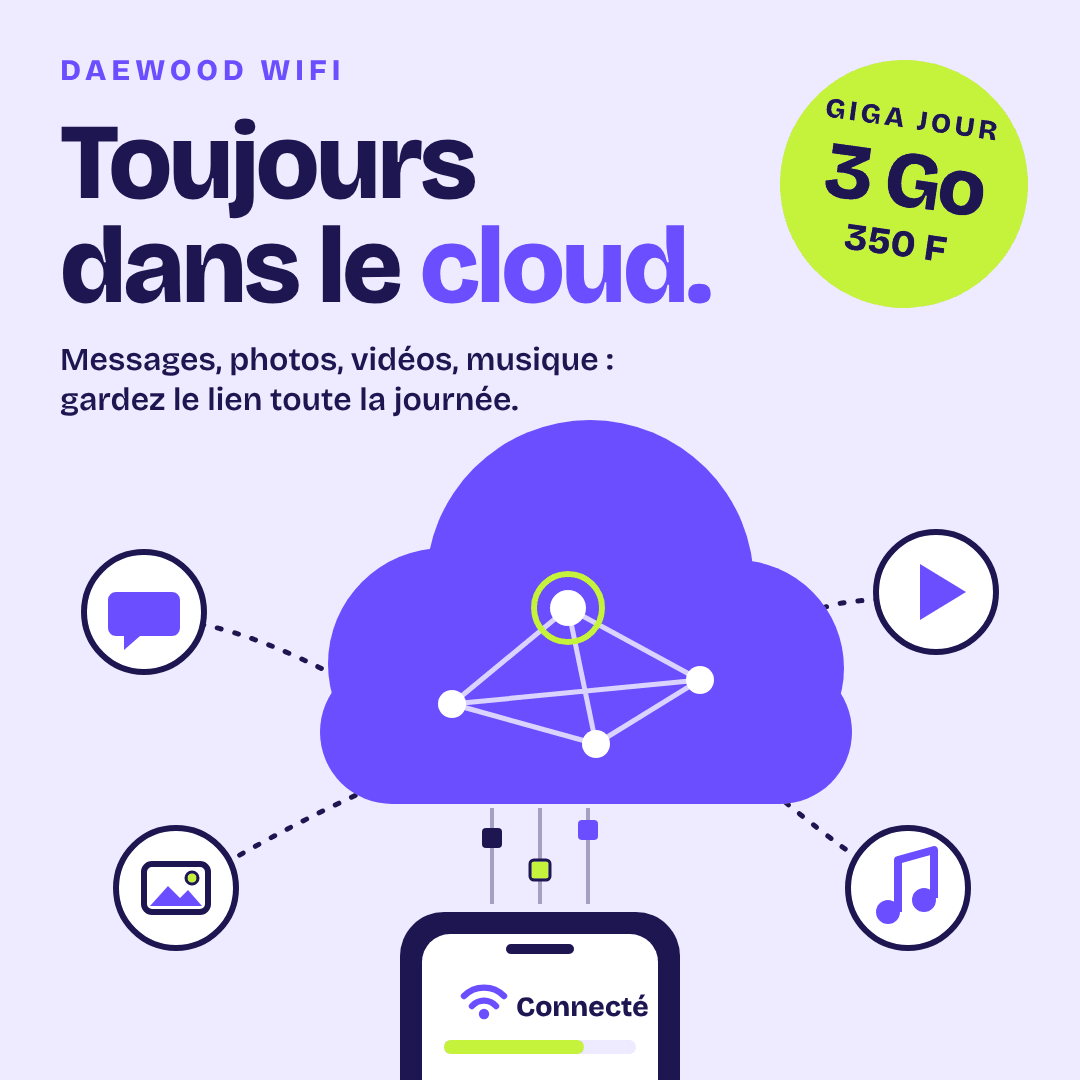
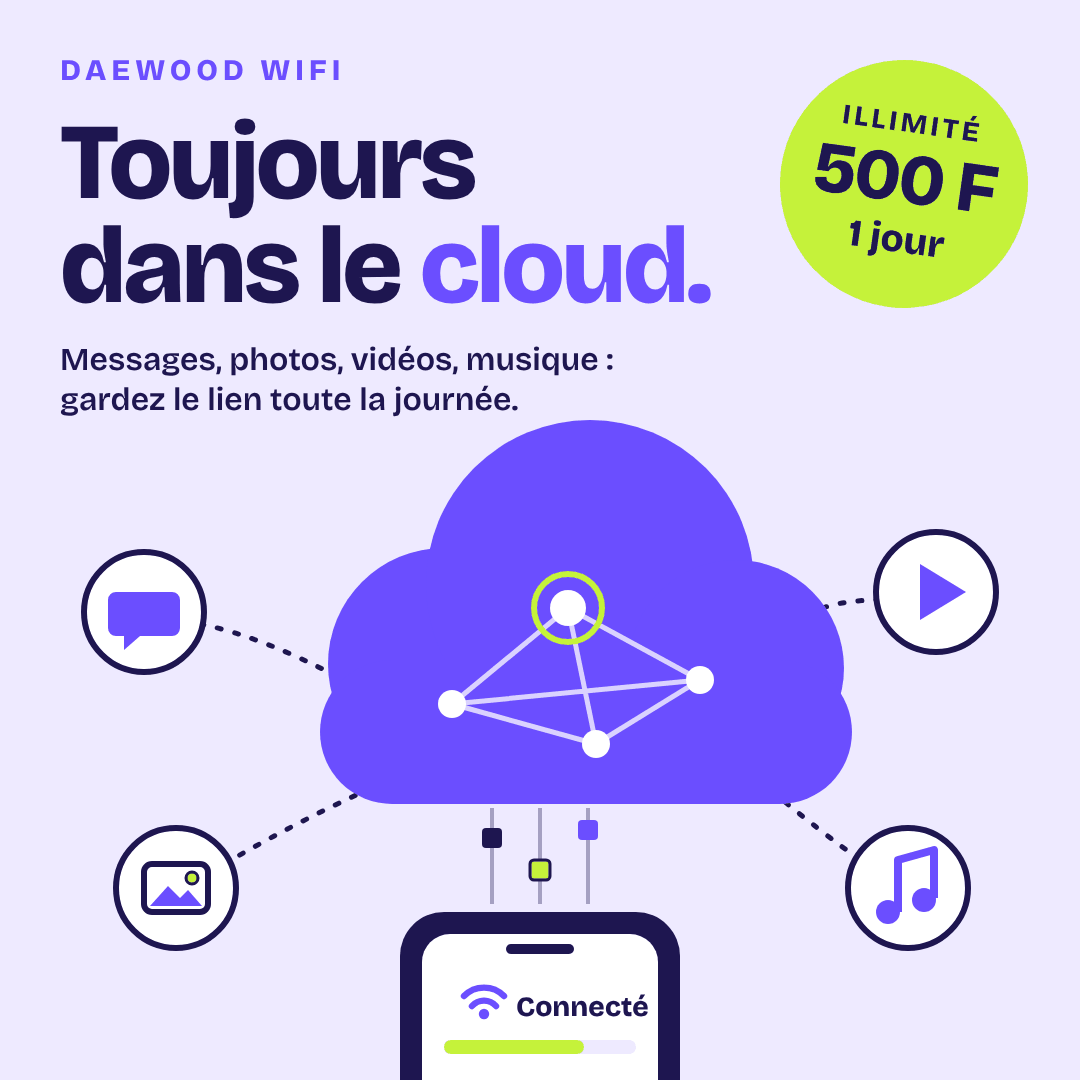
Feature the unlimited day pass on the cloud visual
Claude-Session: https://claude.ai/code/session_0151GoQdyNpgTKuoNTg373TC

Changed region(s): [[0.7333, 0.0917, 0.9472, 0.2444]]

diff --git a/affiche/portail/carre-2-cloud.html b/affiche/portail/carre-2-cloud.html
@@ -24,7 +24,7 @@
     display: flex; flex-direction: column; align-items: center; justify-content: center; line-height: 1;
   }
   .badge .a { font-weight: 800; font-size: 14px; letter-spacing: .12em; }
-  .badge .b { font-weight: 800; font-size: 40px; letter-spacing: -.03em; margin: 3px 0 2px; }
+  .badge .b { font-weight: 800; font-size: 36px; letter-spacing: -.03em; margin: 3px 0 2px; }
   .badge .c { font-weight: 800; font-size: 19px; }
 </style>
 </head>
@@ -98,7 +98,7 @@
   <p class="sub">Messages, photos, vidéos, musique : gardez le lien toute la journée.</p>
 </div>
 
-<div class="badge"><div class="a">GIGA JOUR</div><div class="b">3 Go</div><div class="c">350 F</div></div>
+<div class="badge"><div class="a">ILLIMITÉ</div><div class="b">500 F</div><div class="c">1 jour</div></div>
 
 </body>
 </html>
